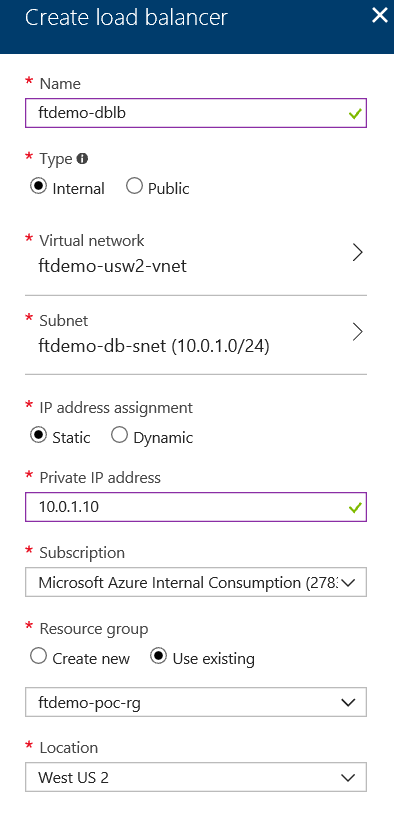
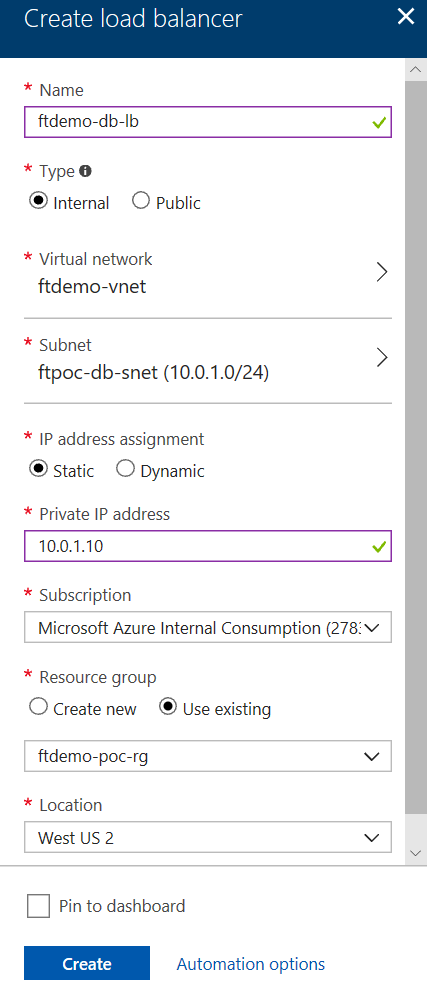
gg

diff --git a/wordpress-on-iaas-rhel.md b/wordpress-on-iaas-rhel.md
@@ -148,32 +148,29 @@ GRANT ALL PRIVILEGES ON *.* TO 'ftdemodbuser'@'%' WITH GRANT OPTION;
   * From the left panel on the Azure Portal, select **Load balancers**.
   * Click on **Add**
   * Name: **(prefix)-db-lb**
-  * Click **Public IP Address**, click **New**
-  * Enter name **(prefix)-web-pip**, click **Ok**
-
-     ![Screenshot](media/website-on-iaas-http/poc-tbd.png)
+  * Type: **Internal**
+  * Virtual Network: **(prefix)-vnet**
+  * Subnet: **(prefix)-db-snet**
+  * IP Address Assignment: Static
+  * Choose one IP and remember it. For example 10.0.1.10.  
+  
+     ![Screenshot](media/website-on-iaas-http-linux/linuxpoc-13.png)
 
   * Select **Use Existing** for **Resource Group**, i.e. **(prefix)-poc-rg**, click **Create**
-
-     ![Screenshot](media/website-on-iaas-http/poc-tbd.png)
-
   * After the **Load Balancer** is created, select the one you added.
-
-     ![Screenshot](media/website-on-iaas-http/poc-tbd.png)
-
   * Under **Settings** select **Health probes**, click **Add**.
-  * Enter name **(prefix)-web-prob**, leaving all the defaults, click **Ok**
+  * Enter name **(prefix)-db-prob**, changing the port to 3306, click **Ok**
 
-   ![Screenshot](media/website-on-iaas-http/poc-tbd.png)
+   ![Screenshot](media/website-on-iaas-http-linux/linuxpoc-21.png)
 
 # Add the VMs to Load Balancer
   * Under **Settings** select **Backend pools**, click **Add**.
-  * Enter name **(prefix)-web-pool**.
+  * Enter name **(prefix)-db-pool**.
   * For **Associated to**, select **Availability set**.
-  * For the **Availability set**, select **(prefix)-web-as**.
+  * For the **Availability set**, select **(prefix)-db-as**.
   * Click **Add a target network IP configuration** to add the first web server and its IP address.
 
-   ![Screenshot](media/website-on-iaas-http/poc-tbd.png)
+   ![Screenshot](media/website-on-iaas-http-linux/linuxpoc-15.png)
 
   * **Repeat** the step above to also add the IP configuration for the second web server.
   * Click **OK**.
